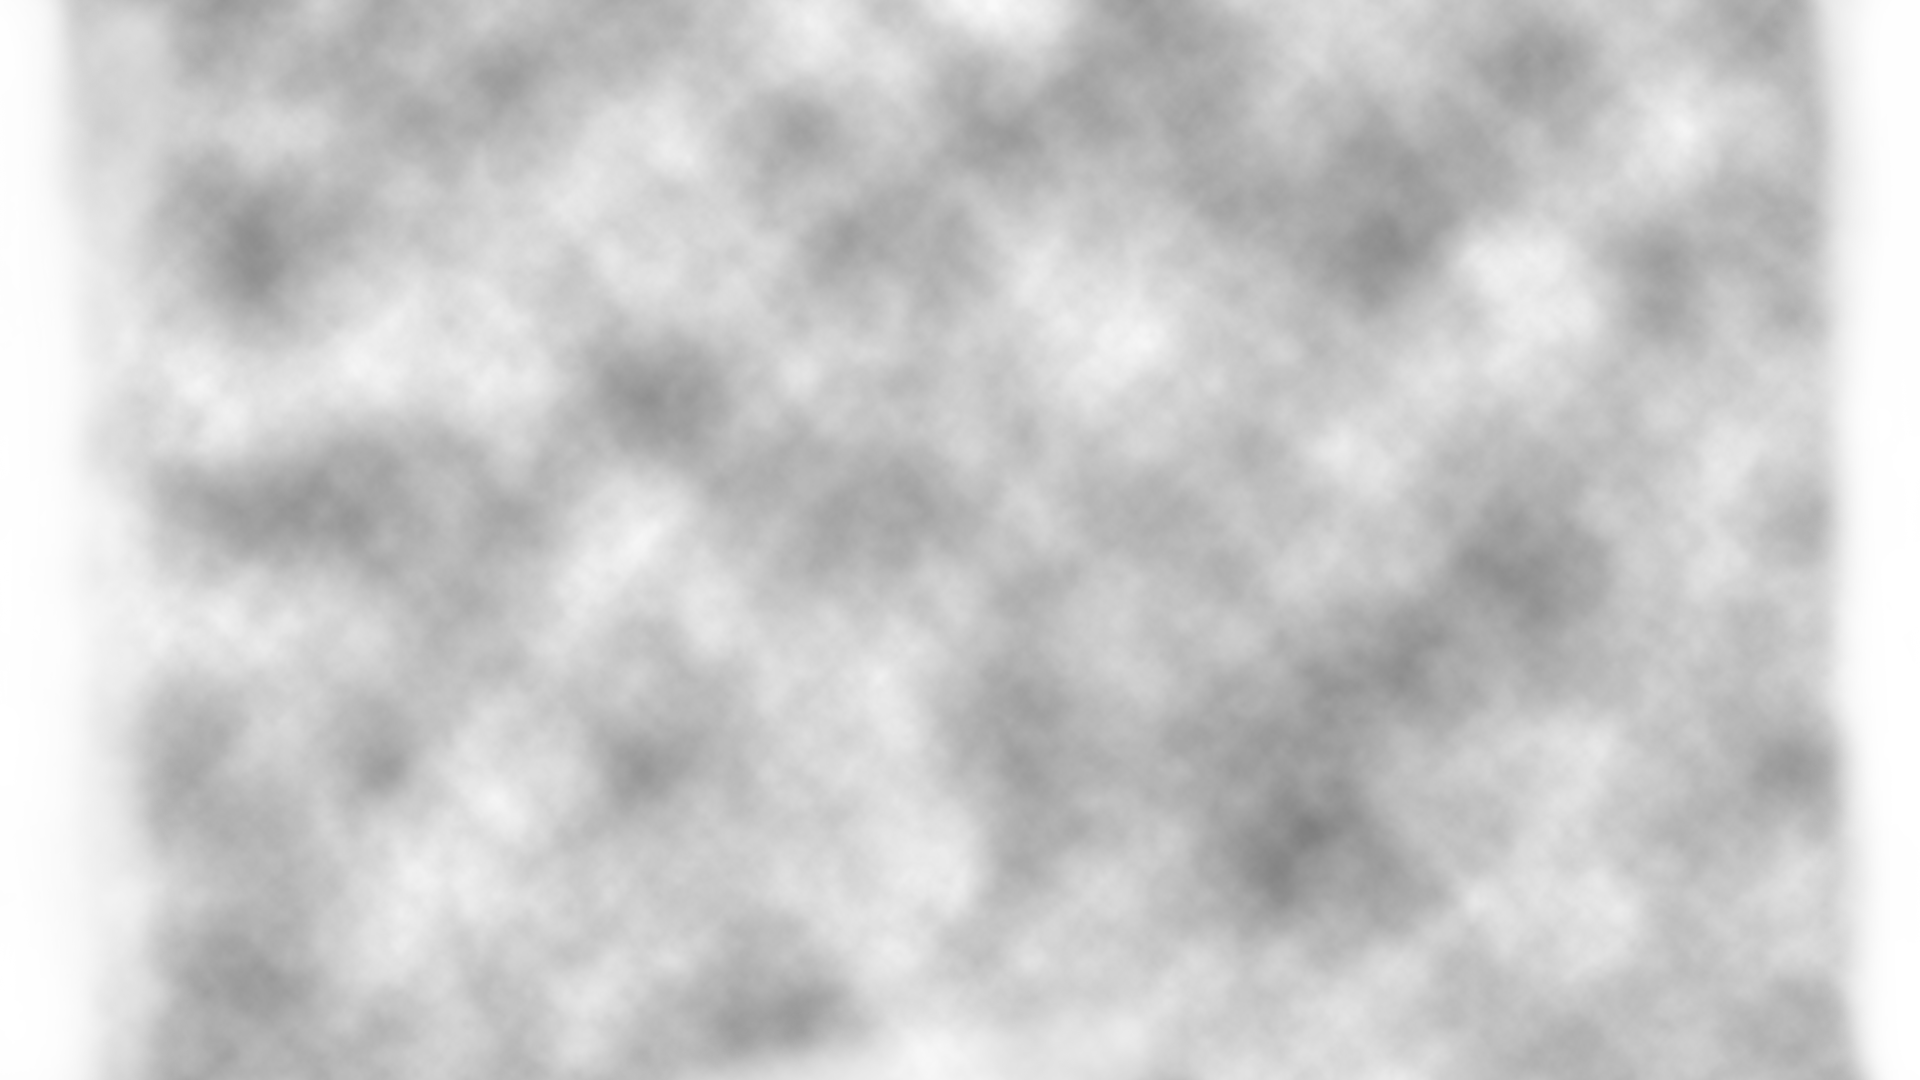
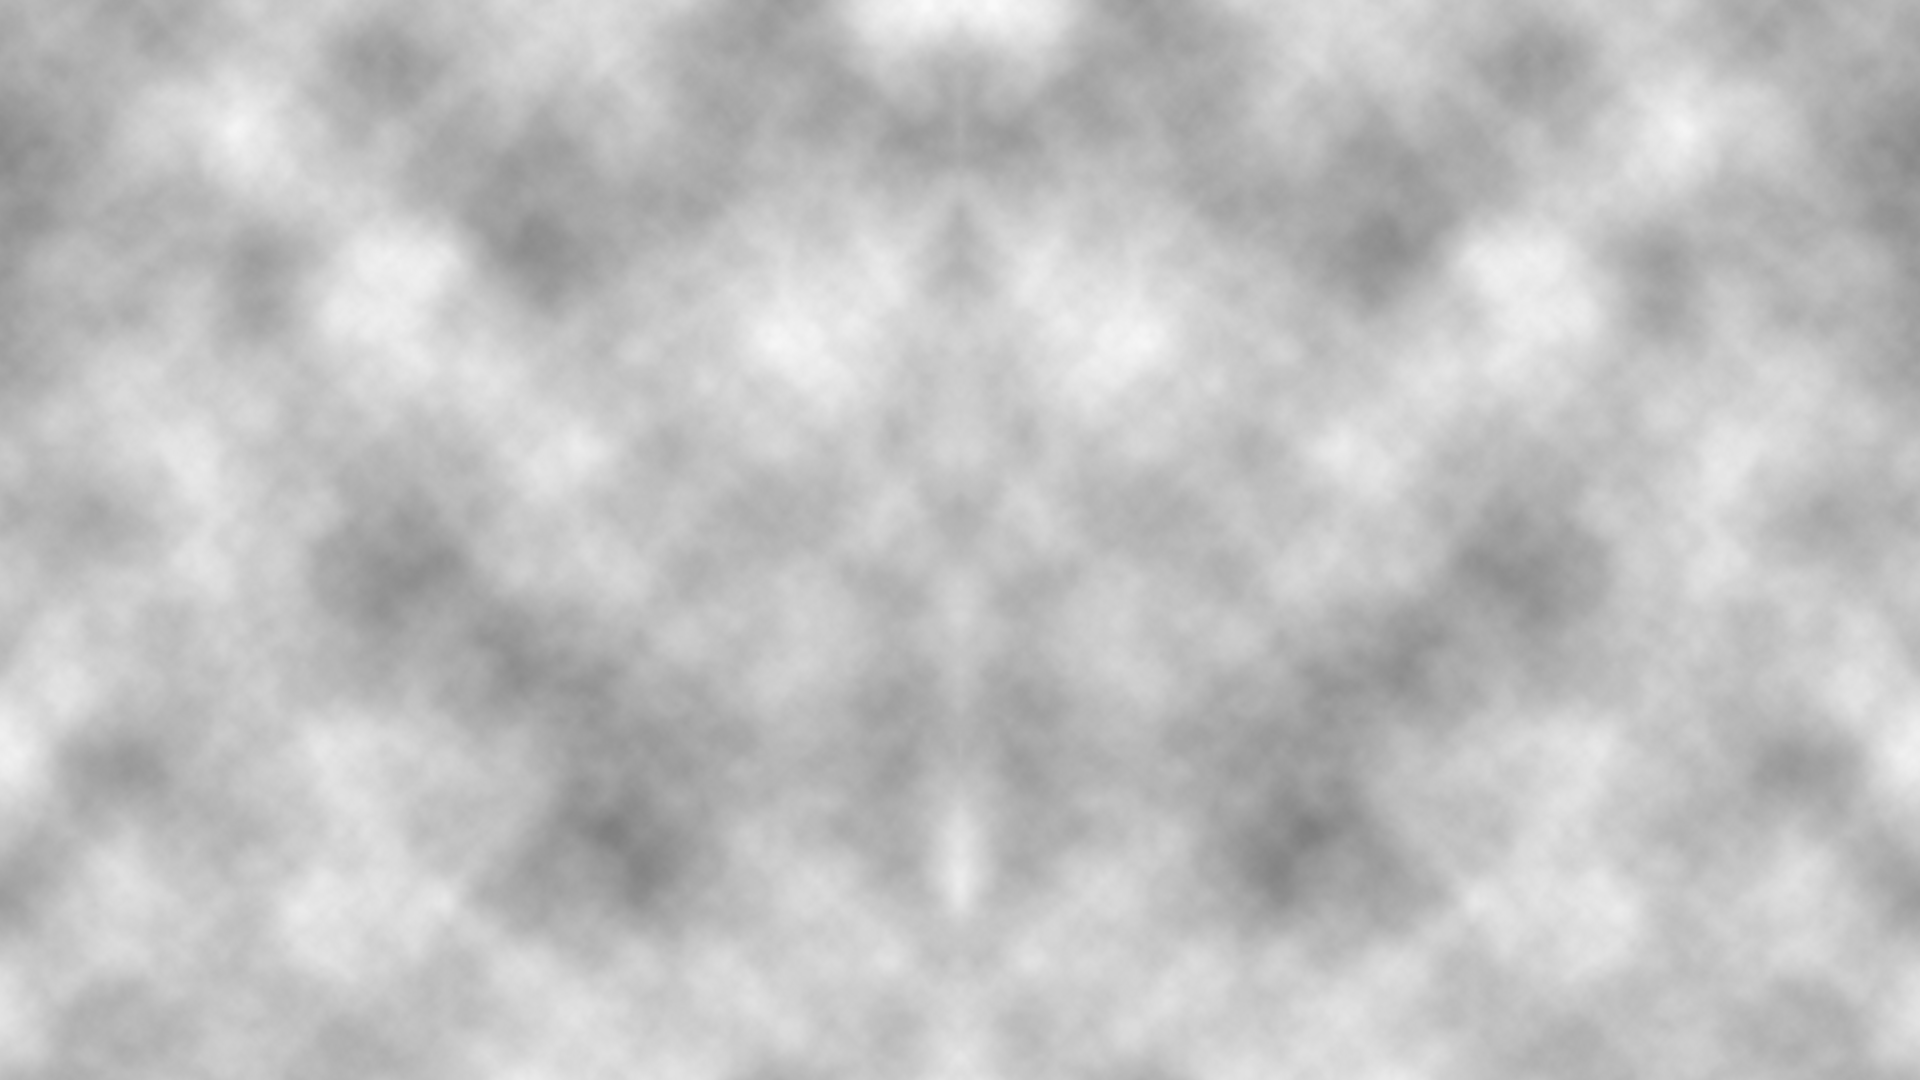
Finare bakgrund till lobby

diff --git a/TankWars3000/TankWars3000/Lobby/LobbyBackground.cs b/TankWars3000/TankWars3000/Lobby/LobbyBackground.cs
@@ -11,12 +11,13 @@ namespace TankWars3000
 {
     class LobbyBackground
     {
-        Texture2D smoketx;
+        Texture2D smoketx, backGlow;
         Rectangle f1, f2, r1, r2;
 
         public LobbyBackground(ContentManager content)
         {
             smoketx = content.Load<Texture2D>("images/smokee");
+            backGlow = content.Load<Texture2D>("images/backGlow");
 
             f1 = new Rectangle(0, 0, Game1.ScreenRec.Width, Game1.ScreenRec.Height);
             f2 = new Rectangle(-Game1.ScreenRec.Width, 0, Game1.ScreenRec.Width, Game1.ScreenRec.Height);
@@ -38,16 +39,18 @@ namespace TankWars3000
 
             f1.X += 1;
             f2.X += 1;
-            r1.X -= 2;
-            r2.X -= 2;
+            r1.X -= 1;
+            r2.X -= 1;
         }
 
         public void Draw(SpriteBatch spriteBatch)
         {
             spriteBatch.Draw(smoketx, f1, null, Color.White, 0, Vector2.Zero, SpriteEffects.None, 1);
             spriteBatch.Draw(smoketx, f2, null, Color.White, 0, Vector2.Zero, SpriteEffects.None, 1);
-            spriteBatch.Draw(smoketx, r1, null, Color.White, 0, Vector2.Zero, SpriteEffects.FlipHorizontally, 1);
-            spriteBatch.Draw(smoketx, r2, null, Color.White, 0, Vector2.Zero, SpriteEffects.FlipHorizontally, 1);
+            spriteBatch.Draw(smoketx, r1, null, Color.White, 0, Vector2.Zero, SpriteEffects.FlipVertically, 1);
+            spriteBatch.Draw(smoketx, r2, null, Color.White, 0, Vector2.Zero, SpriteEffects.FlipVertically, 1);
+
+            spriteBatch.Draw(backGlow, Game1.ScreenRec, Color.White);
         }
     }
 }

diff --git a/TankWars3000/TankWars3000/Game1.cs b/TankWars3000/TankWars3000/Game1.cs
@@ -53,6 +53,11 @@ namespace TankWars3000
 
             gameState = GameStates.Lobby;
 
+            graphics.PreferredBackBufferWidth = GraphicsAdapter.DefaultAdapter.CurrentDisplayMode.Width;
+            graphics.PreferredBackBufferHeight = GraphicsAdapter.DefaultAdapter.CurrentDisplayMode.Height;
+            graphics.IsFullScreen = true;
+            graphics.ApplyChanges();
+
             screenRec = new Rectangle(0, 0, graphics.GraphicsDevice.Viewport.Width, graphics.GraphicsDevice.Viewport.Height);
 
             base.Initialize();
